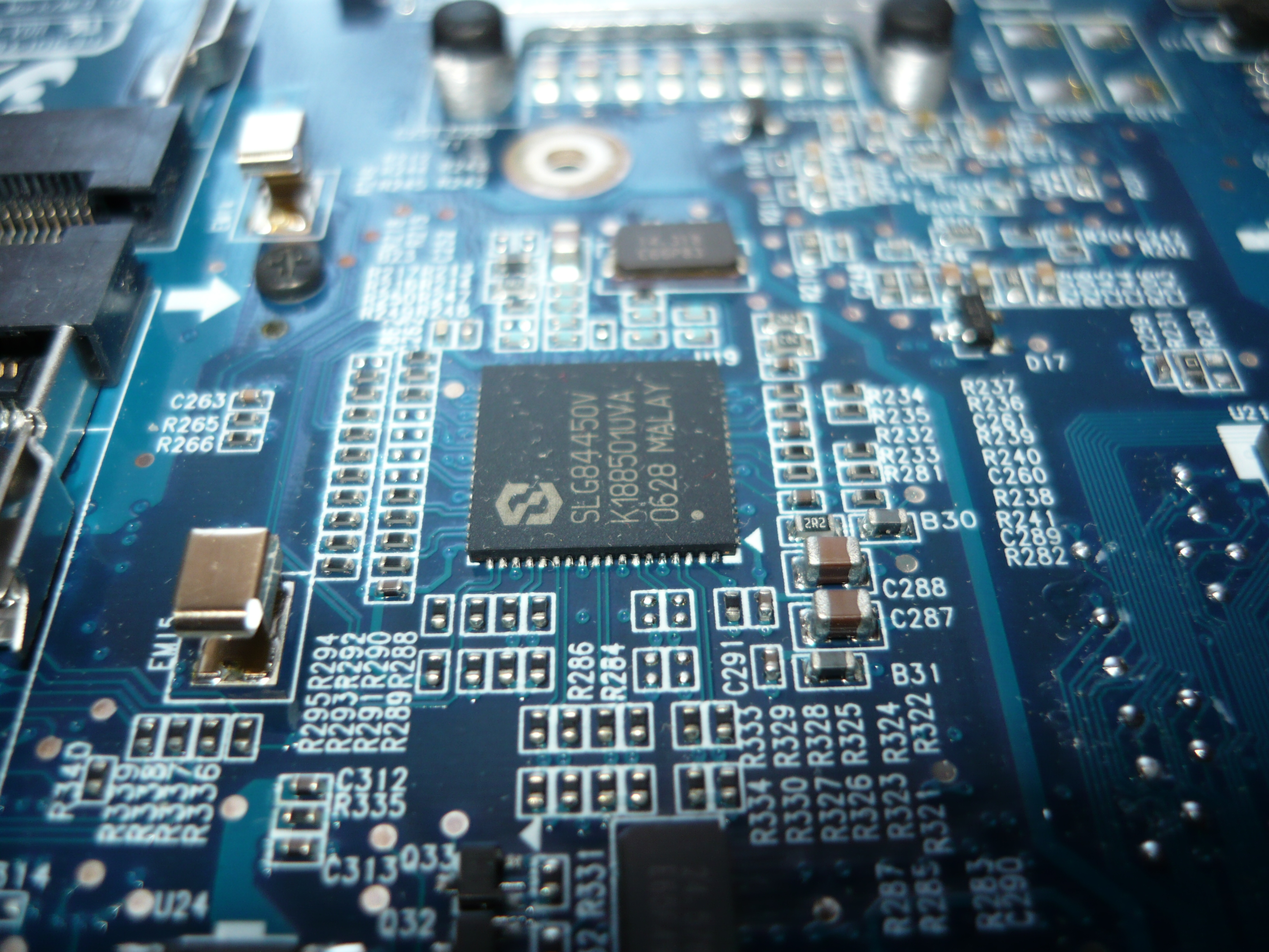
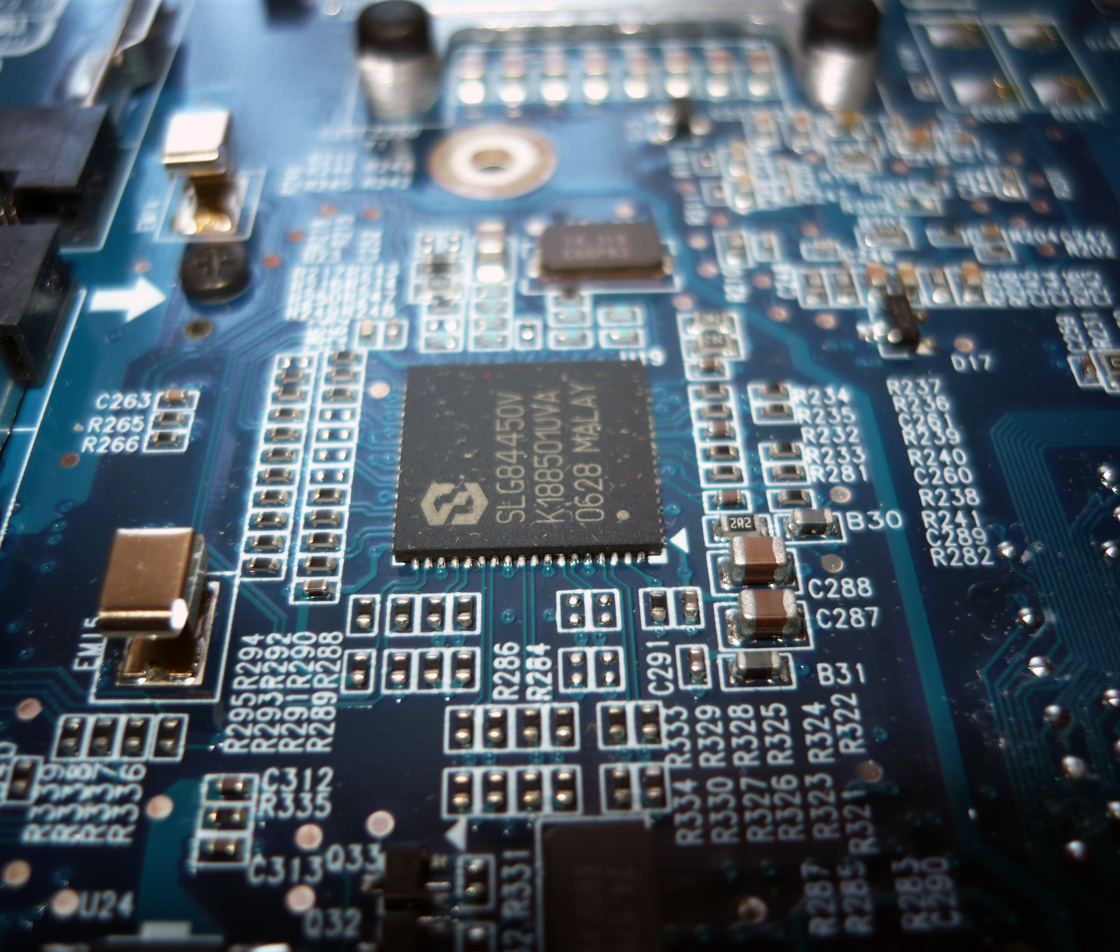
Parallax background
Adjusted image dimensions and position
Added parallax tween

diff --git a/js/min/main.min.js b/js/min/main.min.js
@@ -1,1 +1,1 @@
-$(document).ready(function(){var e=$(window),t=e.height(),n=e.width(),i=new ScrollMagic.Controller,o=$("#slider"),r=Math.max(t/2848,n/4288),a=new TimelineLite({paused:!0}).to(o,1,{zoom:r}).to($("#start"),.1,{css:{autoAlpha:"0",display:"none"}},0).to(o,.5,{autoAlpha:"0"}).set(o,{css:{display:"none"}}),c=e.scrollTop();e.on("scroll",function(){c=e.scrollTop();var n=c/t;n>=0&&TweenLite.to(a.pause(),.1,{time:n})}),new ScrollMagic.Scene({triggerElement:"#bg1",triggerHook:"onLeave",duration:2*t}).setPin("#bg1").addTo(i);var l={discard:[["Monitors",595],["Computers",423],["Hard Drives",290],["Computer Peripherals",67],["Mobile Devices",19]],create:[["USA",30],["B",25],["C",20],["D",15],["E",10]]},d=void 0;new ScrollMagic.Scene({triggerElement:"#pin",triggerHook:"onCenter",duration:0}).on("enter",function(){d=d||new Highcharts.Chart({chart:{type:"pie",renderTo:"chart"},title:{text:"",align:"center",verticalAlign:"middle"},plotOptions:{pie:{shadow:!1,center:["50%","50%"]}},tooltip:{valueSuffix:"k"},series:[{type:"pie",name:"Units",innerSize:"30%",data:JSON.parse(JSON.stringify(l.discard))}]})}).addTo(i),new ScrollMagic.Scene({triggerElement:"#pin",triggerHook:"onLeave",duration:t}).setPin("#pin").addTo(i),new ScrollMagic.Scene({triggerElement:"#section2",duration:0}).on("enter",function(){$.each(d.series[0].data,function(e,t){t.update(l.create[e],!1)}),d.redraw()}).on("leave",function(){$.each(d.series[0].data,function(e,t){t.update(l.discard[e],!1)}),d.redraw()}).addTo(i);var s=$("#cellphone");s.on("load",function(){s.css("left",-s.width()/3+"px")});var g=(new TimelineLite).fromTo(s,1,{top:"0"},{top:"-100%"});new ScrollMagic.Scene({triggerElement:"#case",triggerHook:"onCenter",duration:2*t}).setTween(g).setPin("#case").addTo(i)});
+$(document).ready(function(){var e=$(window),t=e.height(),n=e.width(),o=new ScrollMagic.Controller,i=$("#slider"),r=Math.max(t/2848,n/4288),a=new TimelineLite({paused:!0}).to(i,1,{zoom:r}).to($("#start"),.1,{css:{autoAlpha:"0",display:"none"}},0).to(i,.5,{autoAlpha:"0"}).set(i,{css:{display:"none"}}),c=e.scrollTop();e.on("scroll",function(){c=e.scrollTop();var n=c/t;n>=0&&TweenLite.to(a.pause(),.1,{time:n})}),new ScrollMagic.Scene({triggerElement:"#bg1",triggerHook:"onLeave",duration:2*t}).setTween((new TimelineLite).to($("#bg1"),1,{css:{backgroundPosition:"center bottom"}},0)).setPin("#bg1").addTo(o);var l={discard:[["Monitors",595],["Computers",423],["Hard Drives",290],["Computer Peripherals",67],["Mobile Devices",19]],create:[["USA",30],["B",25],["C",20],["D",15],["E",10]]},s=void 0;new ScrollMagic.Scene({triggerElement:"#pin",triggerHook:"onCenter",duration:0}).on("enter",function(){s=s||new Highcharts.Chart({chart:{type:"pie",renderTo:"chart"},title:{text:"",align:"center",verticalAlign:"middle"},plotOptions:{pie:{shadow:!1,center:["50%","50%"]}},tooltip:{valueSuffix:"k"},series:[{type:"pie",name:"Units",innerSize:"30%",data:JSON.parse(JSON.stringify(l.discard))}]})}).addTo(o),new ScrollMagic.Scene({triggerElement:"#pin",triggerHook:"onLeave",duration:t}).setPin("#pin").addTo(o),new ScrollMagic.Scene({triggerElement:"#section2",duration:0}).on("enter",function(){$.each(s.series[0].data,function(e,t){t.update(l.create[e],!1)}),s.redraw()}).on("leave",function(){$.each(s.series[0].data,function(e,t){t.update(l.discard[e],!1)}),s.redraw()}).addTo(o);var d=$("#cellphone");d.on("load",function(){d.css("left",-d.width()/3+"px")});var g=(new TimelineLite).fromTo(d,1,{top:"0"},{top:"-100%"});new ScrollMagic.Scene({triggerElement:"#case",triggerHook:"onCenter",duration:2*t}).setTween(g).setPin("#case").addTo(o)});

diff --git a/css/main.css b/css/main.css
@@ -293,12 +293,12 @@ section {
 
 #bg1 {
   position: absolute;
-  top: 0;
+  top: 100%;
   left: 0;
   height: 100%;
   width: 100%;
-  background-size: cover;
-  background: url("../images/circuit_board.jpg") center center;
+  background: url("../images/circuit_board.jpg") center top;
+  background-size: 100% auto;
   -webkit-filter: brightness(200%);
   -webkit-filter: contrast(90%);
   filter: brightness(200%);
@@ -328,20 +328,18 @@ section {
       -webkit-justify-content: flex-end;
       text-align: right; }
 
-#cellphone {
-  position: absolute;
-  top: 0;
-  left: 0;
-  max-height: 100%;
-  width: auto; }
-
 #case {
   position: absolute;
-  top: 400%;
+  top: 425%;
   height: 100%;
   width: auto; }
+  #case #cellphone {
+    position: absolute;
+    top: 0;
+    left: 0;
+    max-height: 100%;
+    width: auto; }
 
 #barchart {
-  width:90%;
-  margin-right: 5%;
-}
+  width: 90%;
+  margin-right: 5%; }

diff --git a/scss/main.scss b/scss/main.scss
@@ -48,12 +48,12 @@ section {
 }
 #bg1 {
 	position: absolute;
-	top: 0;
+	top: 100%;
 	left: 0;
 	height: 100%;
 	width: 100%;
-	background-size: cover;
-	background: url("../images/circuit_board.jpg") center center;
+	background: url("../images/circuit_board.jpg") center top;
+	background-size: 100% auto;
 	-webkit-filter: brightness(200%);
 	-webkit-filter: contrast(90%);
 	filter: brightness(200%);
@@ -87,16 +87,20 @@ section {
 		}
 	}
 }
-#cellphone {
-	position: absolute;
-	top: 0;
-	left: 0;
-	max-height: 100%;
-	width: auto;
-}
 #case {
 	position: absolute;
-	top: 400%;
+	top: 425%;
 	height: 100%;
 	width: auto;
+	#cellphone {
+		position: absolute;
+		top: 0;
+		left: 0;
+		max-height: 100%;
+		width: auto;
+	}
+}
+#barchart {
+	width:90%;
+	margin-right: 5%;
 }

diff --git a/js/main.js b/js/main.js
@@ -26,7 +26,9 @@ $(document).ready(function() {
 		triggerElement: "#bg1",
 		triggerHook: "onLeave",
 		duration: windowHeight * 2
-	}).setPin("#bg1")
+	}).setTween(new TimelineLite().to(
+		$("#bg1"), 1, {css: {backgroundPosition: "center bottom"}}, 0
+	)).setPin("#bg1")
 		.addTo(controller);
 
 	// Chart setup
